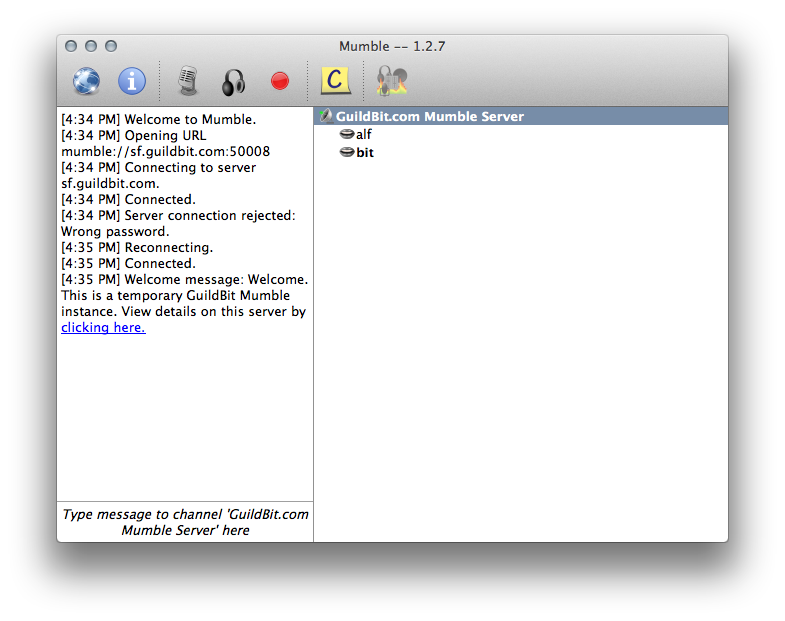
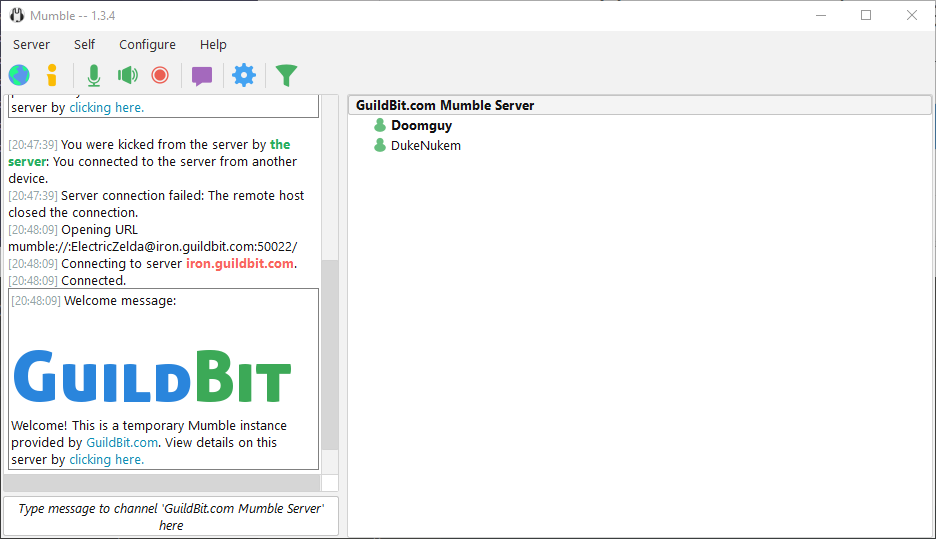
chore: updating screenshots and how-it-works page.

diff --git a/app/templates/how_it_works.html b/app/templates/how_it_works.html
@@ -6,11 +6,11 @@
     <div class="content how-it-works">
         <h1>{{ _('How It Works') }}</h1>
 
-        <p>{{ _('Traditional VOIP hosts offer subscription-based and persistent servers, so generally a premium
-        is charged. <strong>GuildBit</strong> works on the idea of temporary servers to preserve system
+        <p>{{ _('<strong>GuildBit</strong> works on the idea of free, temporary servers to preserve system
         resources, opening up more server slots which aren&apos;t being occupied. This helps lower hosting,
-        resources and bandwidth costs. Also, VPS hosting nowadays are much cheaper than they used to be. The
-        rest is supported by donations and upgrades.') }}</p>
+        resources and bandwidth costs. We are supported by donations and upgrades. Check out some of
+        our <a href="/upgrade">upgrade options</a> for more slots and durations.') }}</p>
+        <p>GuildBit has been operating and providing free Mumble servers since 2013!</p>
         <hr>
 
         <div class="pure-g text-center">
@@ -20,13 +20,12 @@
             </div>
             <div class="pure-u-1-1 pure-u-md-1-3">
               <h2><i class="fa fa-clock-o"></i> {{ _('Set a duration') }}</h2>
-              <h4>{{ ('Choose a duration for the server. From 1-4 hours. The
+              <h4>{{ ('Choose a duration for the server. From 1 to 4 hours. The
               less hours you use, the more resources open up for others. :)') }}</h4>
             </div>
             <div class="pure-u-1-1 pure-u-md-1-3">
               <h2><i class="fa fa-lock"></i> {{ _('Set a password') }}</h2>
-              <h4>{{ _('Password protected servers are required, due to the fact the server may be
-              reused in the future.') }}</h4>
+              <h4>{{ _('Password protected servers are required as servers are reused.') }}</h4>
             </div>
         </div>
         <a class="fancybox" rel="group" href="../static/img/screenshots/howitworks_home.png">
@@ -36,7 +35,8 @@
 
         <h2 class="text-center"><i class="fa fa-signal"></i> Connection Details</h2>
         <h4>{{ _('Share the connection details, or use the copy feature to copy/paste the credentials
-            directly. The server page also monitors users in room (including subchannels) and displays the expiration countdown.') }}</h4>
+            directly. The server page also lists users in room and displays the expiration countdown. You may
+            also extend the server duration up to 3 times!') }}</h4>
         <a class="fancybox" rel="group" href="../static/img/screenshots/howitworks_connection_details.png">
           <img class="pure-img lazy" data-original="../static/img/screenshots/howitworks_connection_details.png" alt="{{ _('Share the connection details, or use the copy feature to copy/paste the credentials
             directly. The server page also monitors users in room (including subchannels) and displays the expiration countdown.') }}" width="800" />
@@ -71,8 +71,7 @@
         <h2>{{ _('FAQs') }}</h2>
         <dl class="faqs">
             <dt>{{ _('How is it free?') }}</dt>
-            <dd>{{ _('Donations, paid upgrades and low server/bandwidth costs. Remainders
-                are paid of out pocket. :)') }}</dd>
+            <dd>{{ _('Donations and paid upgrades. Thanks for your support!') }}</dd>
 
             <dt>{{ _('Why temporary servers?') }}</dt>
             <dd>{{ _('The idea is targeted towards gamers who need a quick Mumble server for their group or raid
@@ -96,10 +95,10 @@
 
             <dt>{{ _('What is a SuperUser?') }}</dt>
             <dd>{{ _('A SuperUser is an admin account on your Mumble server to grant permissions and roles to users and
-            groups as well as setting up channels.') }}</dd>
+            groups as well as setting up channels. This feature is only available on <a href="/upgrade">upgraded servers.</a>') }}</dd>
 
             <dt>{{ _('Do you plan on offering other methods of payment?') }}</dt>
-            <dd>{{ _('We&apos;re looking into Stripe or Balanced Payments integration. :)') }}</dd>
+            <dd>{{ _('We&apos;re looking into alternate payment options.') }}</dd>
 
             <dt>{{ _('How can I contribute?') }}</dt>
             <dd>

diff --git a/app/static/css/style.css b/app/static/css/style.css
@@ -401,6 +401,7 @@ a:hover {
 }
 .content.how-it-works img.pure-img {
     margin: 0 auto;
+    box-shadow: 0px 0px 8px #bdbdbd;
 }
 
 /* Labels */

diff --git a/README.md b/README.md
@@ -13,7 +13,6 @@ https://guildbit.com
 
 ![Guildbit.com Home](screenshots/01_screenshot_home.png)
 ![Guildbit.com Server](screenshots/02_screenshot_server.png)
-![Guildbit.com Admin](screenshots/03_screenshot_admin.png)
 
 ## Technology Stack
 * [Flask](http://flask.pocoo.org/) - Python Framework
